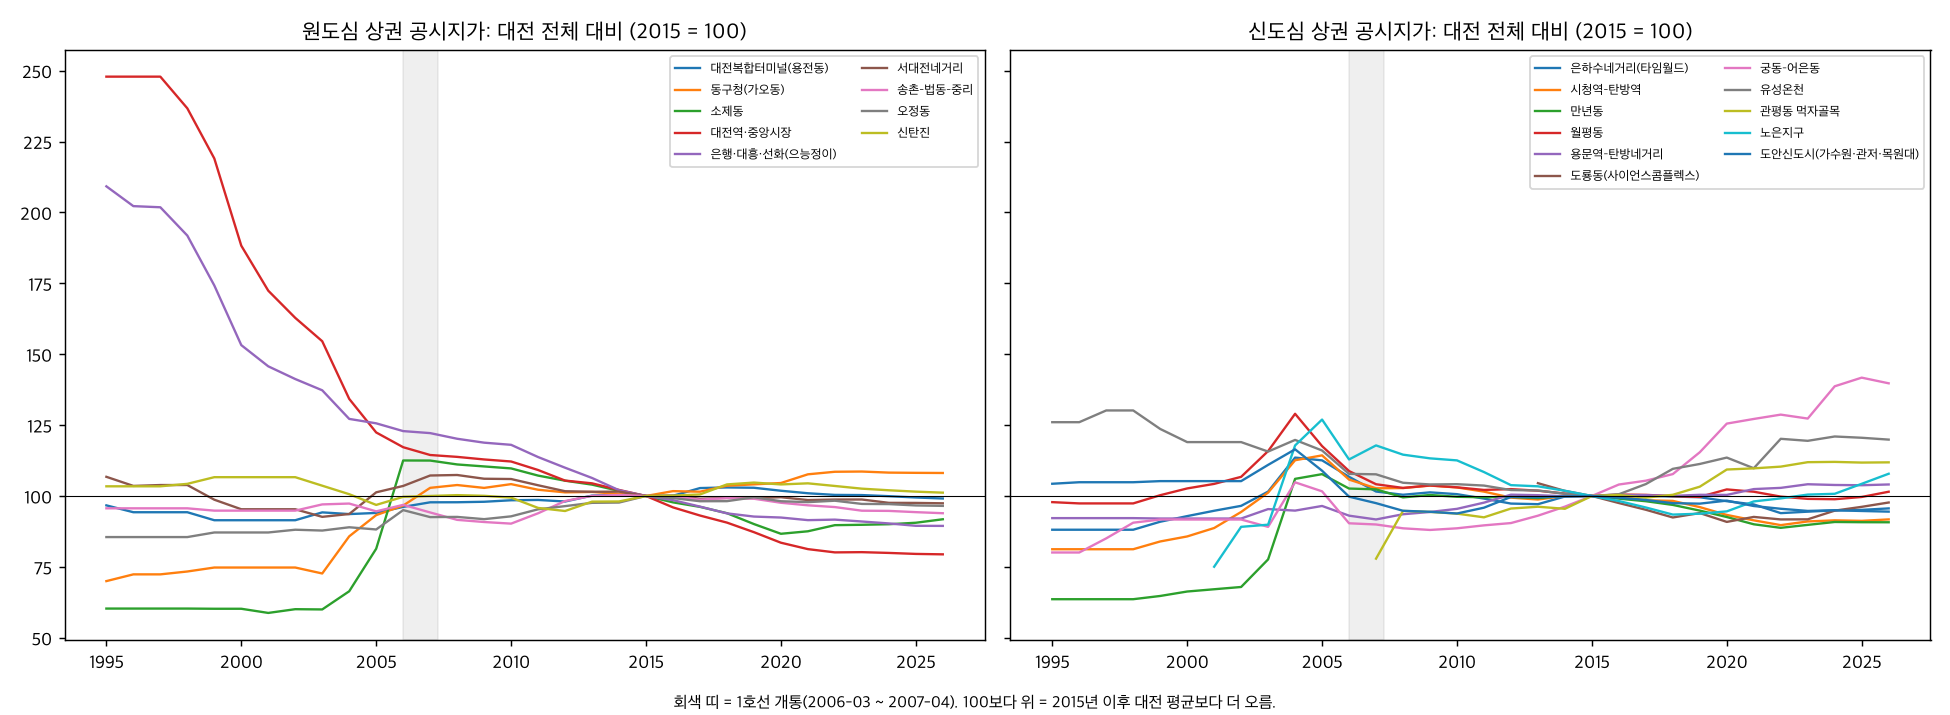
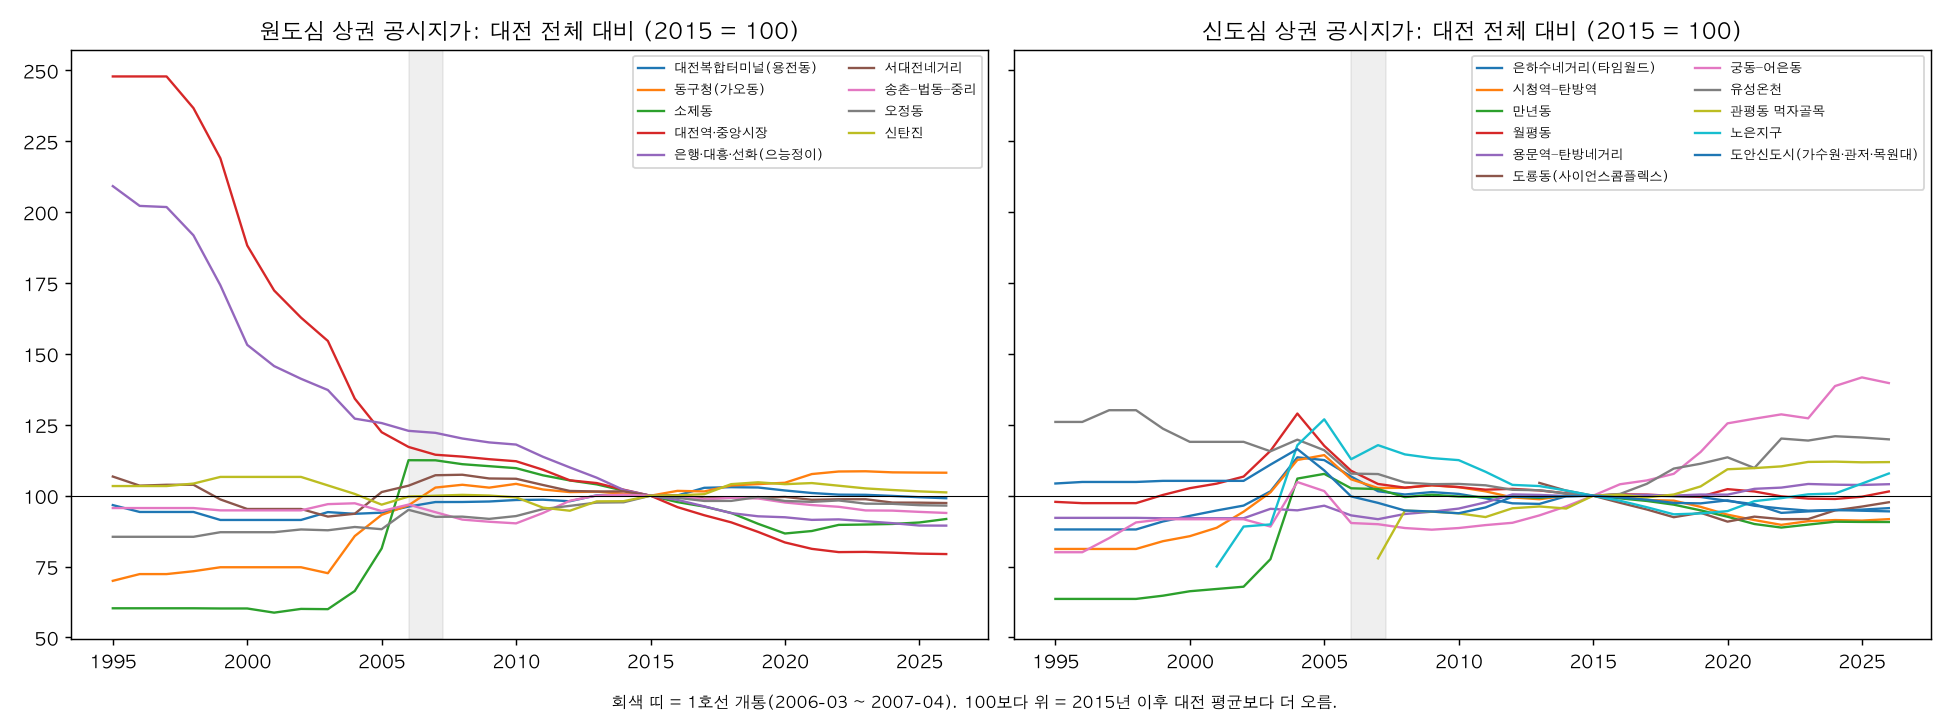
노선 순서 수정, 강건성 검정, 유형 안정성, run_all

diff --git a/tram_model/analyze_robustness.py b/tram_model/analyze_robustness.py
@@ -1,0 +1,120 @@
+"""트램 효과 근거(1호선 1단계 역세권 지가 효과)의 강건성 검정 + 정거장 반경 민감도.
+
+입력: build_landprice.py 출력, outputs/features_ext.csv·scenario_tram_uplift.csv (train_analyze.py)
+출력 (outputs/)
+- robust_line1.csv       : 검정별 효과(%), 95% 구간, 개통 전 차이
+- robust_radius.csv      : 상권별 정거장 400/500/600m 안 셀 비율과 트램 효과(기본)
+- robust_line1.png
+
+검정 (모두 1호선 1단계, 기준 2005년, 개통 후 2007~2010 평균)
+ A 기본            : 역 500m vs 1~3km
+ B 비교군 거리     : 1~2km / 2~3km / 1.5~4km
+ C 처리 반경       : 300 / 400 / 600m
+ D 같은 구 안 비교 : 비교군을 처리 필지와 같은 구(동·중·서구)로 제한 → 원도심 전체 반등 영향 줄이기
+ E 가짜 개통연도   : 2001년 개통이라 치고 기준 2000, '개통 후' 2002~2004 (실제 개통 전) → 0 근처여야 정상
+ F 가짜 역         : 아직 없던 트램 2호선 정거장 500m(1호선 역 1km 밖) vs 1~3km, 같은 기간 → 0 근처여야 정상
+"""
+import numpy as np
+import pandas as pd
+
+import config as C
+from analyze_landprice import event_study, load, pct, window_mean
+
+POST = range(2007, 2011)
+
+
+def run(G, W, tr, ct, base=2005, post=POST, years=None):
+    years = years or sorted(set(range(2000, 2011)) | {base})
+    es, boot, yrs = event_study(G, W, tr, ct, base, years)
+    m, lo, hi = window_mean(es, boot, yrs, post)
+    pre = [y for y in yrs if y < base and y >= base - 5]
+    pm = window_mean(es, boot, yrs, pre)[0] if pre else np.nan
+    return {"effect_pct": pct(m), "ci_lo": pct(lo), "ci_hi": pct(hi), "pre_diff_pct": pct(pm),
+            "n_treat": int(es.n_treat.max()), "n_ctrl": int(es.n_ctrl.max())}
+
+
+def main():
+    import matplotlib
+    matplotlib.use("Agg")
+    import matplotlib.pyplot as plt
+    from matplotlib import font_manager as fm
+    for f in fm.findSystemFonts():
+        if any(k in f for k in ("AppleSDGothicNeo", "AppleGothic", "NanumGothic", "NotoSansCJK", "Malgun")):
+            fm.fontManager.addfont(f); plt.rcParams["font.family"] = fm.FontProperties(fname=f).get_name(); break
+    plt.rcParams["axes.unicode_minus"] = False
+
+    print("필지 자료 읽는 중 ...", flush=True)
+    G, W = load()
+    ph1 = G.l1_phase == 1
+    gu = (G.dong_code // 100000).astype(int)            # 시군구 코드 5자리
+    rows = []
+
+    def add(group, label, **kw):
+        r = run(G, W, **kw)
+        rows.append({"group": group, "test": label, **r})
+        print(f"  {group:<10} {label:<28} {r['effect_pct']:+6.1f}%  [{r['ci_lo']:+.1f}, {r['ci_hi']:+.1f}]  "
+              f"개통 전 차이 {r['pre_diff_pct']:+.1f}%", flush=True)
+
+    tr500 = ph1 & (G.d_l1 <= 500)
+    ctl = (G.d_l1 > 1000) & (G.d_l1 <= 3000)
+    add("A 기본", "역 500m vs 1~3km", tr=tr500, ct=ctl)
+    for a, b in [(1000, 2000), (2000, 3000), (1500, 4000)]:
+        add("B 비교군", f"비교군 {a / 1000:g}~{b / 1000:g}km", tr=tr500, ct=(G.d_l1 > a) & (G.d_l1 <= b))
+    for r_ in (300, 400, 600):
+        add("C 처리 반경", f"역 {r_}m", tr=ph1 & (G.d_l1 <= r_), ct=ctl)
+    tg = set(gu[tr500])
+    add("D 같은 구", "비교군을 처리 필지와 같은 구로", tr=tr500, ct=ctl & gu.isin(tg))
+    add("E 가짜 개통", "2001년 개통 가정 (2002~04)", tr=tr500, ct=ctl, base=2000, post=range(2002, 2005),
+        years=list(range(1995, 2006)))
+    far = G.d_l1 > 1000
+    add("F 가짜 역", "트램 정거장 500m (2005→2007~10)", tr=(G.d_tram <= 500) & far,
+        ct=(G.d_tram > 1000) & (G.d_tram <= 3000) & far)
+    R = pd.DataFrame(rows)
+    R.to_csv(C.OUT_DIR / "robust_line1.csv", index=False, encoding="utf-8-sig")
+
+    # 판정
+    base = R.iloc[0]
+    main_tests = R[R.group.str[0].isin(list("BCD"))]
+    same_sign = (main_tests.effect_pct > 0).mean()
+    plac = R[R.group.str[0].isin(list("EF"))]
+    plac_ok = ((plac.ci_lo < -0.05) & (plac.ci_hi > 0.05)).all()     # 구간이 0을 확실히 포함해야 통과
+    print(f"\n[판정] 기본 {base.effect_pct:+.1f}% | 비교군·반경·같은 구 검정 {len(main_tests)}개 중 "
+          f"{same_sign:.0%} 가 같은 방향(+), 범위 {main_tests.effect_pct.min():+.1f}~{main_tests.effect_pct.max():+.1f}% | "
+          f"가짜 검정 {'통과(0 포함)' if plac_ok else '일부 경계/실패 → ' + ', '.join(plac[~((plac.ci_lo < -0.05) & (plac.ci_hi > 0.05))].test) + ' 확인 필요'}")
+
+    # 정거장 반경 민감도 (트램 시나리오)
+    e = pd.read_csv(C.OUT_DIR / "features_ext.csv", encoding="utf-8-sig")
+    ds = pd.read_csv(C.OUT_DIR / "daejeon_tram_area_dataset.csv", encoding="utf-8-sig")
+    dist = ds.drop_duplicates("area_id").set_index("area_id").dist_tram_m
+    e["dist"] = e.area_id.map(dist)
+    sc = pd.read_csv(C.OUT_DIR / "scenario_tram_uplift.csv", encoding="utf-8-sig").set_index("area_id")
+    names = pd.read_csv(C.AREAS_CSV, encoding="utf-8-sig").set_index("code").name
+    cell = e.drop_duplicates("area_id").assign(cell=lambda d: d.area_id.str.rsplit("_", n=1).str[0])
+    cell = cell.drop_duplicates("cell")
+    rad = cell.groupby("zone").agg(**{f"in{r}": ("dist", lambda v, r=r: (v <= r).mean()) for r in (400, 500, 600)})
+    # 기본 효과(500m) 를 400·600m 로 바꾸면: 500m 안 셀의 평균 효과 × 해당 반경 안 셀 비율
+    eff_in = sc[sc.in_tram_500 == 1].groupby("zone").eff_base.mean()
+    for r in (400, 500, 600):
+        rad[f"eff{r}_pct"] = (np.expm1(eff_in.reindex(rad.index).fillna(eff_in.mean())) * 100
+                              * rad[f"in{r}"]).round(2)
+    rad.insert(0, "name", rad.index.map(names))
+    rad["changes_group"] = ((rad.in400 == 0) != (rad.in600 == 0)).map({True: "반경에 따라 트램 근접 여부 바뀜", False: ""})
+    rad.round(3).to_csv(C.OUT_DIR / "robust_radius.csv", encoding="utf-8-sig")
+    ch = rad[rad.changes_group != ""]
+    print("\n[반경 민감도] 400m↔600m 에서 트램 근접 여부가 바뀌는 상권:",
+          ", ".join(ch.name) if len(ch) else "없음")
+
+    fig, ax = plt.subplots(figsize=(9, 5))
+    y = np.arange(len(R))[::-1]
+    col = ["C3" if g.startswith("A") else ("gray" if g[0] in "EF" else "C0") for g in R.group]
+    ax.errorbar(R.effect_pct, y, xerr=[R.effect_pct - R.ci_lo, R.ci_hi - R.effect_pct], fmt="none", ecolor=col, lw=2)
+    ax.scatter(R.effect_pct, y, c=col, zorder=3)
+    ax.set_yticks(y); ax.set_yticklabels([f"{g} | {t}" for g, t in zip(R.group, R.test)], fontsize=8)
+    ax.axvline(0, c="k", lw=.7)
+    ax.set_xlabel("효과 (%) — 95% 구간"); ax.set_title("1호선 1단계 역세권 지가 효과 강건성 (회색 = 가짜 검정, 0 근처여야 정상)")
+    plt.tight_layout(); plt.savefig(C.OUT_DIR / "robust_line1.png", dpi=130)
+    print("→ outputs/robust_line1.csv, robust_radius.csv, robust_line1.png")
+
+
+if __name__ == "__main__":
+    main()

diff --git a/tram_model/run_all.py b/tram_model/run_all.py
@@ -1,0 +1,64 @@
+"""전체 파이프라인을 순서대로 실행.
+
+사용 (프로젝트 폴더에서):
+  python tram_model/run_all.py            # 무거운 단계는 결과가 이미 있으면 건너뜀
+  python tram_model/run_all.py --full     # 처음부터 전부 다시 (상가 과거 패널·공시지가 포함, 5~10분)
+  python tram_model/run_all.py --from train_analyze   # 그 단계부터 끝까지
+
+중간에 실패하면 그 단계 이름과 오류를 보여 주고 멈춤.
+"""
+import argparse
+import subprocess
+import sys
+import time
+from pathlib import Path
+
+HERE = Path(__file__).resolve().parent
+ROOT = HERE.parent                      # 프로젝트 폴더 (map_data.csv 위치)
+OUT = HERE / "outputs"
+
+# (스크립트, 설명, 무거운 단계면 '이 파일이 있으면 건너뜀')
+STEPS = [
+    ("build_areas", "20개 상권 경계", None),
+    ("build_store_panel", "상가 과거 패널 (42개 분기)", OUT / "store_panel.csv"),
+    ("analyze_store_panel", "상가 사건 효과", OUT / "panel_event_effects.csv"),
+    ("build_landprice", "공시지가 1990~2026", OUT / "landprice_long.pkl"),
+    ("analyze_landprice", "1호선·트램 지가 효과", None),
+    ("build_dataset", "학습 데이터셋 (293개 격자)", None),
+    ("train_analyze", "모델 학습 + 트램 시나리오", None),
+    ("make_map_data", "지도용 데이터 (1차)", None),
+    ("build_area_panel", "상권 × 연도 패널", None),
+    ("cluster_areas", "상권 유형 (K-means)", None),
+    ("make_map_data", "지도용 데이터 (유형 반영)", None),
+    ("analyze_robustness", "트램 효과 강건성 검정", None),
+]
+
+
+def main():
+    ap = argparse.ArgumentParser()
+    ap.add_argument("--full", action="store_true", help="무거운 단계도 다시 실행")
+    ap.add_argument("--from", dest="start", default=None, help="이 단계부터 실행 (예: train_analyze)")
+    a = ap.parse_args()
+    names = [s[0] for s in STEPS]
+    if a.start and a.start not in names:
+        sys.exit(f"단계 이름이 없습니다: {a.start}\n가능: {', '.join(dict.fromkeys(names))}")
+    i0 = names.index(a.start) if a.start else 0
+    t_all = time.time()
+    for i, (name, desc, skip_if) in enumerate(STEPS):
+        if i < i0:
+            continue
+        tag = f"[{i + 1}/{len(STEPS)}] {name} — {desc}"
+        if skip_if is not None and skip_if.exists() and not a.full and not (a.start and i == i0):
+            print(f"{tag}: 결과 있음 → 건너뜀 (다시 하려면 --full)")
+            continue
+        print(f"\n{tag}", flush=True)
+        t = time.time()
+        r = subprocess.run([sys.executable, str(HERE / f"{name}.py")], cwd=ROOT)
+        if r.returncode != 0:
+            sys.exit(f"\n✖ {name} 단계에서 멈춤 (위 오류 확인). 고친 뒤:  python tram_model/run_all.py --from {name}")
+        print(f"   ✓ {time.time() - t:.0f}초")
+    print(f"\n완료 ({time.time() - t_all:.0f}초). 지도: streamlit run app.py")
+
+
+if __name__ == "__main__":
+    main()

diff --git a/tram_model/cluster_areas.py b/tram_model/cluster_areas.py
@@ -24,7 +24,7 @@ import numpy as np
 import pandas as pd
 from sklearn.cluster import KMeans
 from sklearn.decomposition import PCA
-from sklearn.metrics import silhouette_score
+from sklearn.metrics import adjusted_rand_score, silhouette_score
 
 import config as C
 
@@ -124,6 +124,37 @@ def main():
             names[c] += f" {seen[names[c]]}"
     F["type_name"] = F.cluster.map(names)
     F["note"] = ["점포 지표 왜곡(신세계 입점) → 지가·규모로 배정" if c in ARTIFACT else "" for c in F.index]
+    # ── 안정성: 표본 재추출(부트스트랩) · 특징 하나 빼기 · 시작값 바꾸기 → 같은 유형이 다시 나오는가
+    fit_codes = list(Z.index)
+    base_lab = pd.Series(km.predict(Z), index=fit_codes)
+    rng = np.random.default_rng(SEED)
+    same = pd.DataFrame(0.0, index=fit_codes, columns=fit_codes); cnt = same.copy()
+    aris = []
+    for b in range(300):
+        idx = rng.choice(len(Z), len(Z), replace=True)
+        kb = KMeans(n_clusters=k_best, n_init=20, random_state=b).fit(Z.iloc[idx])
+        lb = pd.Series(kb.predict(Z), index=fit_codes)
+        aris.append(adjusted_rand_score(base_lab, lb))
+        eq = (lb.values[:, None] == lb.values[None, :]).astype(float)
+        same += eq; cnt += 1
+    co = same / cnt
+    stab = {c: co.loc[c, base_lab[base_lab == base_lab[c]].index.drop(c)].mean()
+            if (base_lab == base_lab[c]).sum() > 1 else np.nan for c in fit_codes}
+    drop_ari = {}
+    for f in USE:
+        cols = [c for c in USE if c != f]
+        kd = KMeans(n_clusters=k_best, n_init=100, random_state=SEED).fit(Z[cols])
+        drop_ari[f] = adjusted_rand_score(base_lab, kd.labels_)
+    seed_ari = [adjusted_rand_score(base_lab, KMeans(n_clusters=k_best, n_init=1, random_state=s).fit(Z).labels_)
+                for s in range(50)]
+    F["stability"] = F.index.map(lambda c: round(stab.get(c, np.nan), 2) if c in stab else np.nan)
+    S = pd.DataFrame({"test": ["부트스트랩 300회 평균 ARI", "시작값 50개 평균 ARI"] + [f"'{FEATS[f]}' 빼고 ARI" for f in USE],
+                      "ari": [np.mean(aris), np.mean(seed_ari)] + list(drop_ari.values())}).round(3)
+    S.to_csv(C.OUT_DIR / "area_type_stability.csv", index=False, encoding="utf-8-sig")
+    print("\n[안정성] ARI (1 = 똑같이 나뉨, 0 = 우연 수준)\n", S.to_string(index=False))
+    print("  상권별 안정도(같은 유형 상권과 다시 묶이는 비율) 낮은 순:",
+          ", ".join(f"{F.loc[c, 'name']} {v:.2f}" for c, v in sorted(stab.items(), key=lambda x: x[1])[:5]))
+
     Z = Zall
     pca = PCA(2, random_state=SEED).fit(Z)
     pc = pca.transform(Z)

diff --git a/tram_model/tram_route.py b/tram_model/tram_route.py
@@ -1,0 +1,24 @@
+"""트램 2호선 노선 순서 (정거장 번호 ≠ 노선 순서).
+
+- 순환선: 201 → … → 231 → 245(진잠네거리) → 232 → … → 240 → 201
+  (245 진잠네거리는 번호만 마지막이고 실제로는 대정(231)과 원앙네거리(232) 사이)
+- 지선: 순환선에서 가장 가까운 정거장 → 241 동춘당 → 242 법동 → 243 읍내 → 244 연축
+번호가 바뀌거나 정거장이 늘면 LOOP / BRANCH 만 고치면 됨.
+"""
+import numpy as np
+
+LOOP = list(range(201, 232)) + [245] + list(range(232, 241))
+BRANCH = [241, 242, 243, 244]
+
+
+def route_paths(st):
+    """st: station_no, lat, lon 이 있는 표 → [순환선 [[lon,lat],…], 지선 [[lon,lat],…]] (pydeck PathLayer 용)."""
+    pos = {int(r.station_no): (float(r.lon), float(r.lat)) for r in st.itertuples()}
+    loop = [pos[n] for n in LOOP if n in pos]
+    paths = [loop + loop[:1]]
+    br = [pos[n] for n in BRANCH if n in pos]
+    if br:
+        lon0, lat0 = br[0]
+        d = [np.hypot((lo - lon0) * 0.806, la - lat0) for lo, la in loop]   # 경도 축척 cos(36.3°)
+        paths.append([loop[int(np.argmin(d))]] + br)
+    return [[list(p) for p in path] for path in paths]

diff --git a/tram_model/README.md b/tram_model/README.md
@@ -93,3 +93,13 @@ streamlit run app.py
 ```
 - 보기 3가지: 상권 20개 / 행정동 82개(통계청 2023-01 경계, `data/daejeon_dong_2023.geojson`) / 격자 250m
 - 경계 클릭 → 오른쪽 패널에 상세·추이·AI 해설. 1호선(파란선), 트램 2호선(주황 점선 순환)
+
+## 한 번에 실행 (run_all.py)
+```bash
+python tram_model/run_all.py              # 무거운 단계(상가 과거·공시지가)는 결과 있으면 건너뜀, 약 1~2분
+python tram_model/run_all.py --full       # 전부 다시
+python tram_model/run_all.py --from train_analyze
+```
+- `tram_route.py`: 트램 노선 순서 (번호 ≠ 노선: 245 진잠네거리는 231~232 사이, 241~244 는 연축 지선)
+- `analyze_robustness.py`: 1호선 효과 강건성(비교군 거리·처리 반경·같은 구·가짜 개통연도·가짜 역) + 정거장 반경 400/500/600m 민감도
+- `cluster_areas.py`: 부트스트랩·특징 빼기·시작값 안정성(ARI), 상권별 안정도 → `area_type_stability.csv`
